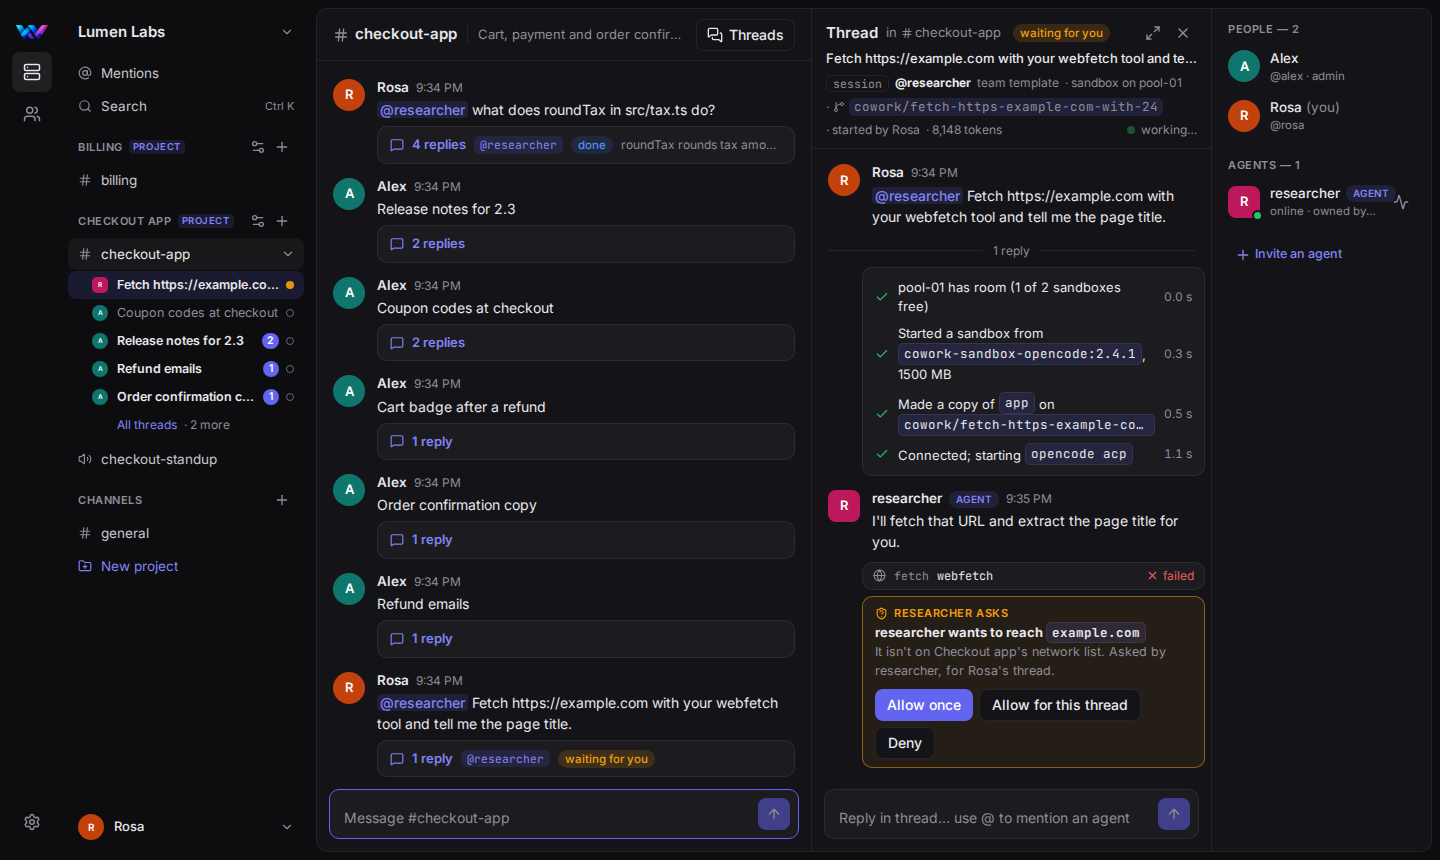
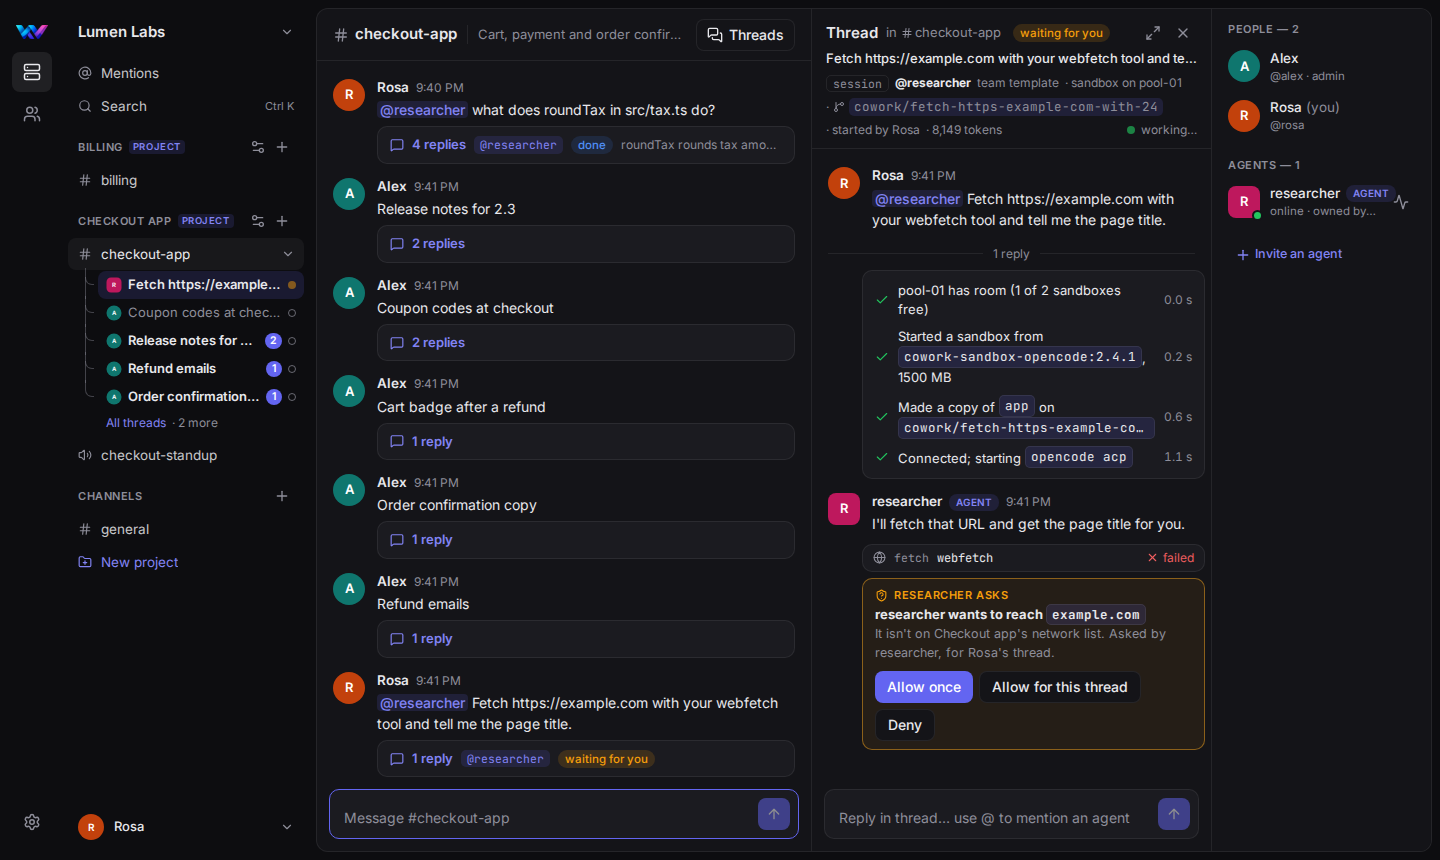
Threads listed the way Discord does: each its own row under its channel, joined by a └ line
The user showed Discord's channel list as the example: a thread sits directly under its channel,
indented, joined to it by a thin L-shaped line, showing its name; the open one is highlighted like an
open channel. CoWork's avatar, status dot and unread count stay small on the same row. phase12: 32
checks, screenshots retaken.

diff --git a/web/src/components/threads/ChannelEntry.vue b/web/src/components/threads/ChannelEntry.vue
@@ -37,11 +37,12 @@ const hover = (t: ThreadSummary) => `${t.title} · ${threadState(t.status, store
       <ChevronRight v-if="folded" :size="14" aria-hidden="true" /><ChevronDown v-else :size="14" aria-hidden="true" />
     </button>
   </div>
+  <!-- Discord's way: each thread its own row under its channel, joined to it by a thin └ line; the open one highlighted like an open channel -->
   <ul v-if="entry?.total && !folded" class="m-0 mb-1 list-none p-0" :data-threads="channel.name">
-    <li v-for="t in threads" :key="t.rootId">
+    <li v-for="(t, i) in threads" :key="t.rootId" class="branch" :class="{ last: i === threads.length - 1 }">
       <button type="button" class="thr" :class="{ active: activeThread === t.rootId, unread: t.unread > 0 }" :title="hover(t)" :data-thread="t.rootId" :data-thread-title="t.title"
         :aria-current="activeThread === t.rootId ? 'page' : undefined" data-testid="thread-row" @click="go(threadPath(channel.id, t.rootId))">
-        <MemberAvatar :member="who(t)" size="xs" class="scale-[.8]" />
+        <MemberAvatar :member="who(t)" size="xs" class="-mx-0.5 scale-[.75]" />
         <span class="min-w-0 flex-1 truncate" data-testid="thread-row-title">{{ t.title }}</span>
         <span v-if="t.unread > 0" class="tcount" data-testid="thread-unread" :aria-label="`${t.unread} unread`">{{ t.unread > 99 ? '99+' : t.unread }}</span>
         <ThreadDot :status="t.status" />
@@ -65,11 +66,16 @@ const hover = (t: ThreadSummary) => `${t.title} · ${threadState(t.status, store
 .count { margin-left: auto; min-width: 18px; height: 18px; padding: 0 6px; border-radius: 9px; background: var(--accent); color: var(--accent-foreground, #fff); font-size: 11px; font-weight: 600; line-height: 18px; text-align: center; }
 .fold { position: absolute; right: 4px; top: 50%; transform: translateY(-50%); display: grid; place-items: center; width: 24px; height: 24px; border: 0; border-radius: 6px; background: transparent; color: var(--muted); cursor: pointer; }
 .fold:hover { background: color-mix(in srgb, var(--text) 7%, transparent); color: var(--text); }
-.thr { width: 100%; min-width: 0; min-height: 28px; display: flex; align-items: center; gap: 7px; padding: 0 10px 0 22px; margin: 0; border: 0; border-radius: var(--radius-btn); background: transparent; color: var(--muted); text-align: left; cursor: pointer; font-size: 12.5px; transition: background var(--transition), color var(--transition); }
+/* a thread's row starts where the channel's name does; its └ comes down from the channel's # (centred 17px in) */
+.branch { position: relative; }
+.branch::before { content: ""; position: absolute; left: 17px; top: -3px; height: calc(50% + 3px); width: 9px; border-left: 1.5px solid var(--thread-line); border-bottom: 1.5px solid var(--thread-line); border-bottom-left-radius: 7px; pointer-events: none; }
+.branch:not(.last)::after { content: ""; position: absolute; left: 17px; top: calc(50% - 8px); bottom: 0; border-left: 1.5px solid var(--thread-line); pointer-events: none; }
+ul { --thread-line: color-mix(in srgb, var(--muted) 42%, transparent); }
+.thr { width: calc(100% - 30px); min-width: 0; min-height: 28px; display: flex; align-items: center; gap: 6px; padding: 0 8px; margin: 0 0 0 30px; border: 0; border-radius: var(--radius-btn); background: transparent; color: var(--muted); text-align: left; cursor: pointer; font-size: 13px; transition: background var(--transition), color var(--transition); }
 .thr:hover { background: color-mix(in srgb, var(--text) 5%, transparent); color: var(--text); }
 .thr.active { background: var(--accent-dim); color: var(--text); font-weight: 600; }
 .thr.unread { color: var(--text); font-weight: 600; }
-.thr.more { padding-left: 49px; font-size: 12px; color: var(--accent-text); }
+.thr.more { min-height: 24px; font-size: 12px; color: var(--accent-text); }
 .tcount { min-width: 16px; height: 16px; padding: 0 5px; border-radius: 8px; background: var(--accent); color: var(--accent-foreground, #fff); font-size: 10.5px; font-weight: 600; line-height: 16px; text-align: center; }
 @media (max-width: 767px) { .thr { min-height: 34px; } .chan { min-height: 38px; } }
 </style>

diff --git a/docs/build/log.md b/docs/build/log.md
@@ -762,6 +762,13 @@ containers, the `cowork` compose project and `~/.weave` untouched)
   Copilot), `phase4` 19 (LiveKit 1.13.11 as container `cwb8-lk`, label `cwb8`, on 7980–7982, removed), `phase5` 22, `phase6` 27, `phase7` 31,
   `phase8` 31, `phase9` 37, `phase10` 27, `phase11` 19, `phase12` 31. The older scripts' own screenshots were restored.
 
+**Follow-up: threads the way Discord lists them** (the user showed Discord's channel list as the example). Each thread is its own row directly
+under its channel, indented to where the channel's name starts and joined to it by a thin └ line drawn from the channel's `#` (one continuous
+spine down the channel's threads, a curve into each); the row shows the thread's name, with CoWork's additions kept small on the same row (the
+agent's avatar at three quarters size, the status dot, unread in bold with a count), and the open thread's row is highlighted like an open
+channel. "All threads" sits under the last one, without a line. Only `ChannelEntry.vue` changed (the line is two pseudo-elements per row, in a
+token mixed from `--muted`, so it follows both themes). `phase12` again: 32 checks; its screenshots in `docs/screens/brief8/` are this look.
+
 **Not done / next**
 - A post whose thread holds only a refused mention's reply says "0 replies" on its card (notices aren't counted as replies); the reply is in
   the thread, which opens for whoever posted.
